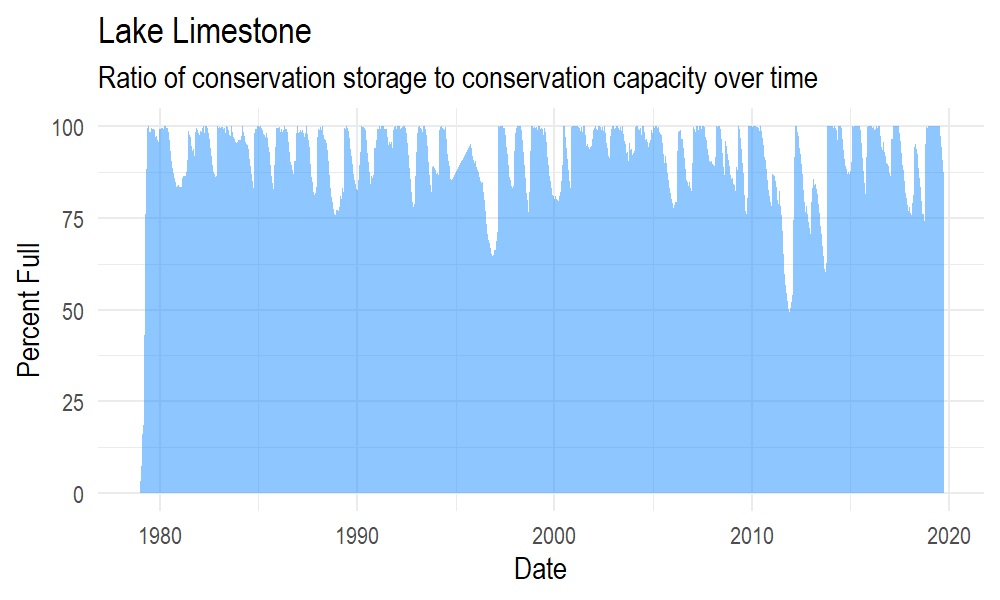
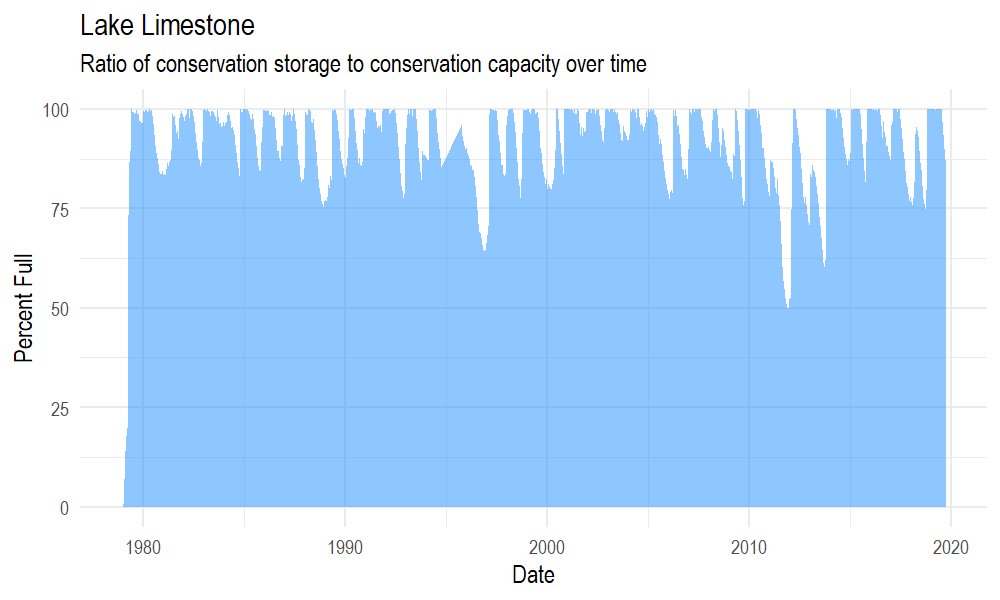
Update readme

diff --git a/README.md b/README.md
@@ -4,6 +4,9 @@
 -   [Usage](#usage)
     -   [Download Reservoir Storage Data](#download-reservoir-storage-data)
     -   [Download Individual Well Data](#download-individual-well-data)
+    -   [Download Evaporation and Precipitation Data](#download-evaporation-and-precipitation-data)
+    -   [Download Coastal Freshwater Inflow Data](#download-coastal-freshwater-inflow-data)
+    -   [Download Coastal Water Quality Data](#download-coastal-water-quality-data)
 
 <!-- README.md is generated from README.Rmd. Please edit that file -->
 wd4tx
@@ -58,7 +61,8 @@ ggplot(df) +
   labs(y = "Percent Full", x = "Date",
        title = "Lake Limestone",
        subtitle = "Ratio of conservation storage to conservation capacity over time") +
-  theme_minimal(base_family = "Arial Narrow")
+  theme_minimal(base_family = "Arial Narrow",
+                base_size = 9)
 ```
 
 <img src="man/figures/README-example1-1.png" width="100%" />
@@ -79,7 +83,8 @@ ggplot(df) +
   labs(y = "Percent Full", x = "Date",
        title = "Houston Reservoir Supply",
        subtitle = "Ratio of conservation storage to conservation capacity over time") +
-  theme_minimal(base_family = "Arial Narrow")
+  theme_minimal(base_family = "Arial Narrow",
+                base_size = 9)
 ```
 
 <img src="man/figures/README-example2-1.png" width="100%" />
@@ -118,7 +123,8 @@ df
 ``` r
 ggplot(df) +
   geom_sf(aes(color = status, fill = status), alpha = 0.5) +
-  theme_void(base_family = "Arial Narrow")
+  theme_void(base_family = "Arial Narrow",
+             base_size = 9)
 ```
 
 <img src="man/figures/README-example4-1.png" width="100%" />
@@ -134,7 +140,168 @@ ggplot(df) +
   scale_y_reverse() +
   labs(y = "Water Level (ft below surface)",
        x = "Date") +
-  theme_minimal(base_family = "Arial Narrow")
+  theme_minimal(base_family = "Arial Narrow",
+                base_size = 9)
 ```
 
 <img src="man/figures/README-example5-1.png" width="100%" />
+
+Download Evaporation and Precipitation Data
+-------------------------------------------
+
+``` r
+df <- download_lep(quad = "710", 
+                   start_date = "2010-01",
+                   end_date = "2018-12")
+df <- df %>%
+  pivot_longer(cols = -period,
+               names_to = "label",
+               values_to = "inches") %>%
+  mutate(period = lubridate::ymd(period, truncated = 2))
+
+ggplot(df) +
+  geom_line(aes(period, inches, color = label, linetype = label)) +
+  theme_minimal(base_family = "Arial Narrow",
+                base_size = 9) +
+  theme(legend.position = "bottom",
+        legend.direction = "horizontal",
+        legend.title = element_blank())
+```
+
+<img src="man/figures/README-example6-1.png" width="100%" />
+
+Download Coastal Freshwater Inflow Data
+---------------------------------------
+
+Estimated freshwater inflows and inflow balances for Texas estuaries are provided to support environmental and water planning studies. Details are here: <https://www.waterdatafortexas.org/coastal/hydrology>
+
+A `geoid` argument is required to identify the watershed data is requested for. Use `download_coastal_geometry()` to download `sf` files which include the name, location, and id.
+
+``` r
+df <- download_coastal_geometry(type = "watershed")
+df
+#> Simple feature collection with 10 features and 4 fields
+#> geometry type:  MULTIPOLYGON
+#> dimension:      XY
+#> bbox:           xmin: -98.91209 ymin: 25.8544 xmax: -93.5491 ymax: 30.75851
+#> epsg (SRID):    4326
+#> proj4string:    +proj=longlat +datum=WGS84 +no_defs
+#> # A tibble: 10 x 5
+#>    name   extradata$displ~ $watershed    id type                   geometry
+#>    <chr>  <chr>            <chr>      <int> <chr>       <MULTIPOLYGON [Â°]>
+#>  1 sabine Sabine Lake      sabine       689 Feat~ (((-94.02172 30.37507, -~
+#>  2 brazo~ Brazos River Es~ brazos_ri~   691 Feat~ (((-95.53541 30.71278, -~
+#>  3 galve~ Galveston Bay    galveston    690 Feat~ (((-95.53244 29.20769, -~
+#>  4 matag~ Matagorda Bay    matagorda    694 Feat~ (((-95.98934 29.30877, -~
+#>  5 san_b~ San Bernard Riv~ san_berna~   692 Feat~ (((-95.61194 28.77265, -~
+#>  6 east_~ East Matagorda ~ east_mata~   693 Feat~ (((-97.13136 29.64649, -~
+#>  7 arans~ Aransas Bay      aransas      695 Feat~ (((-97.5819 27.94688, -9~
+#>  8 corpu~ Corpus Christi ~ corpus_ch~   696 Feat~ (((-97.82122 28.2044, -9~
+#>  9 lagun~ Laguna Madre Es~ laguna_ma~   697 Feat~ (((-97.54611 27.65115, -~
+#> 10 san_a~ San Antonio Bay  san_anton~   698 Feat~ (((-96.83909 28.17699, -~
+```
+
+Valid type arguments include `c(basin", "bay", "estuary", "sub_watershed", "watershed")`. Some types return simple features with topological errors. An example of one way to deal with this is shown below:
+
+``` r
+library(sf)
+df <- df %>%
+  st_transform(crs = 3081) %>%
+  st_simplify()
+
+ggplot(df) +
+  geom_sf() +
+  geom_sf_text(aes(label = id), size = 3) +
+  theme_void(base_size = 9)
+```
+
+<img src="man/figures/README-example8-1.png" width="100%" />
+
+With a valid id number, `download_coastal_hydrology()` can be used to download freshwater inflow data for the specified feature.
+
+``` r
+df <- download_coastal_hydrology(geoid = "689")
+df <- df %>%
+  mutate(date = as.Date(date))
+
+ggplot(df) +
+  geom_line(aes(date, fresh_in)) +
+    theme_minimal(base_family = "Arial Narrow",
+                base_size = 9) +
+  labs(x = "Date", y = "Volume (acre-ft)") +
+  theme(legend.position = "bottom",
+        legend.direction = "horizontal",
+        legend.title = element_blank())
+```
+
+<img src="man/figures/README-example9-1.png" width="100%" />
+
+Download Coastal Water Quality Data
+-----------------------------------
+
+A list of sites is available with the `download_coastal_sites()` function:
+
+``` r
+df <- download_coastal_sites(all_stations = TRUE)
+df
+#> # A tibble: 136 x 14
+#>    description estuary status_id min_date the_geom$type $coordinates    id
+#>    <chr>       <chr>       <int> <chr>    <chr>         <list>       <int>
+#>  1 East Bay @~ Colora~         8 2018-07~ Point         <dbl [2]>      208
+#>  2 West Bay @~ Colora~         3 1994-01~ Point         <dbl [2]>      202
+#>  3 West Bay @~ Colora~         2 2001-02~ Point         <dbl [2]>      205
+#>  4 West Bay @~ Colora~         2 1992-12~ Point         <dbl [2]>      206
+#>  5 Mad Island~ Colora~         3 2015-11~ Point         <dbl [2]>      204
+#>  6 Aransas Ba~ Missio~         3 1986-12~ Point         <dbl [2]>       65
+#>  7 Port Arans~ <NA>            4 1995-10~ Point         <dbl [2]>      258
+#>  8 Lydia Ann ~ Missio~         4 1995-09~ Point         <dbl [2]>      259
+#>  9 Corpus Chr~ Missio~         4 1995-09~ Point         <dbl [2]>      260
+#> 10 GIWW nr Co~ <NA>            4 1995-09~ Point         <dbl [2]>      261
+#> # ... with 126 more rows, and 12 more variables:
+#> #   stationstatus$description <chr>, $id <int>, $name <chr>, name <chr>,
+#> #   agency$abbreviation <chr>, $id <int>, $name <chr>, station_code <chr>,
+#> #   coordinates <list>, bay <chr>, max_date <chr>, basin <chr>
+```
+
+A list of parameters measured at that station are available using `download_coastal_site_parameters()`:
+
+``` r
+df <- download_coastal_site_parameters("SAB2")
+df %>% select(units_name, code, name)
+#> # A tibble: 9 x 3
+#>   units_name   code                   name                                 
+#>   <chr>        <chr>                  <chr>                                
+#> 1 PSU          seawater_salinity      Salinity                             
+#> 2 m            water_depth_nonvented  Water Depth  - vertical distance bel~
+#> 3 mgl          water_dissolved_oxyge~ Dissolved Oxygen Concentration       
+#> 4 v            instrument_battery_vo~ Battery Voltage                      
+#> 5 mS/cm        water_electrical_cond~ Electrical Conductivity (Not Normali~
+#> 6 mS/cm        water_specific_conduc~ Specific Conductance (Normalized @25~
+#> 7 C            water_temperature      Water Temperature                    
+#> 8 %            water_dissolved_oxyge~ Dissolved Oxygen Saturation Concentr~
+#> 9 dimensionle~ water_ph               pH Level
+```
+
+``` r
+df <- download_coastal_site_data(station = "SAB2",
+                                 parameter = "seawater_salinity",
+                                 start_date = "2010-01-01",
+                                 end_date = "2018-01-01",
+                                 bin = "hour")
+df %>%
+  mutate(datetime_utc = as.POSIXct(datetime_utc))
+#> # A tibble: 60,511 x 2
+#>    value datetime_utc       
+#>    <dbl> <dttm>             
+#>  1 8.85  2010-01-01 00:00:00
+#>  2 7.21  2010-01-01 00:00:00
+#>  3 6.31  2010-01-01 00:00:00
+#>  4 4.81  2010-01-01 00:00:00
+#>  5 3.53  2010-01-01 00:00:00
+#>  6 2.38  2010-01-01 00:00:00
+#>  7 1.85  2010-01-01 00:00:00
+#>  8 1.04  2010-01-01 00:00:00
+#>  9 0.96  2010-01-01 00:00:00
+#> 10 0.879 2010-01-01 00:00:00
+#> # ... with 60,501 more rows
+```
